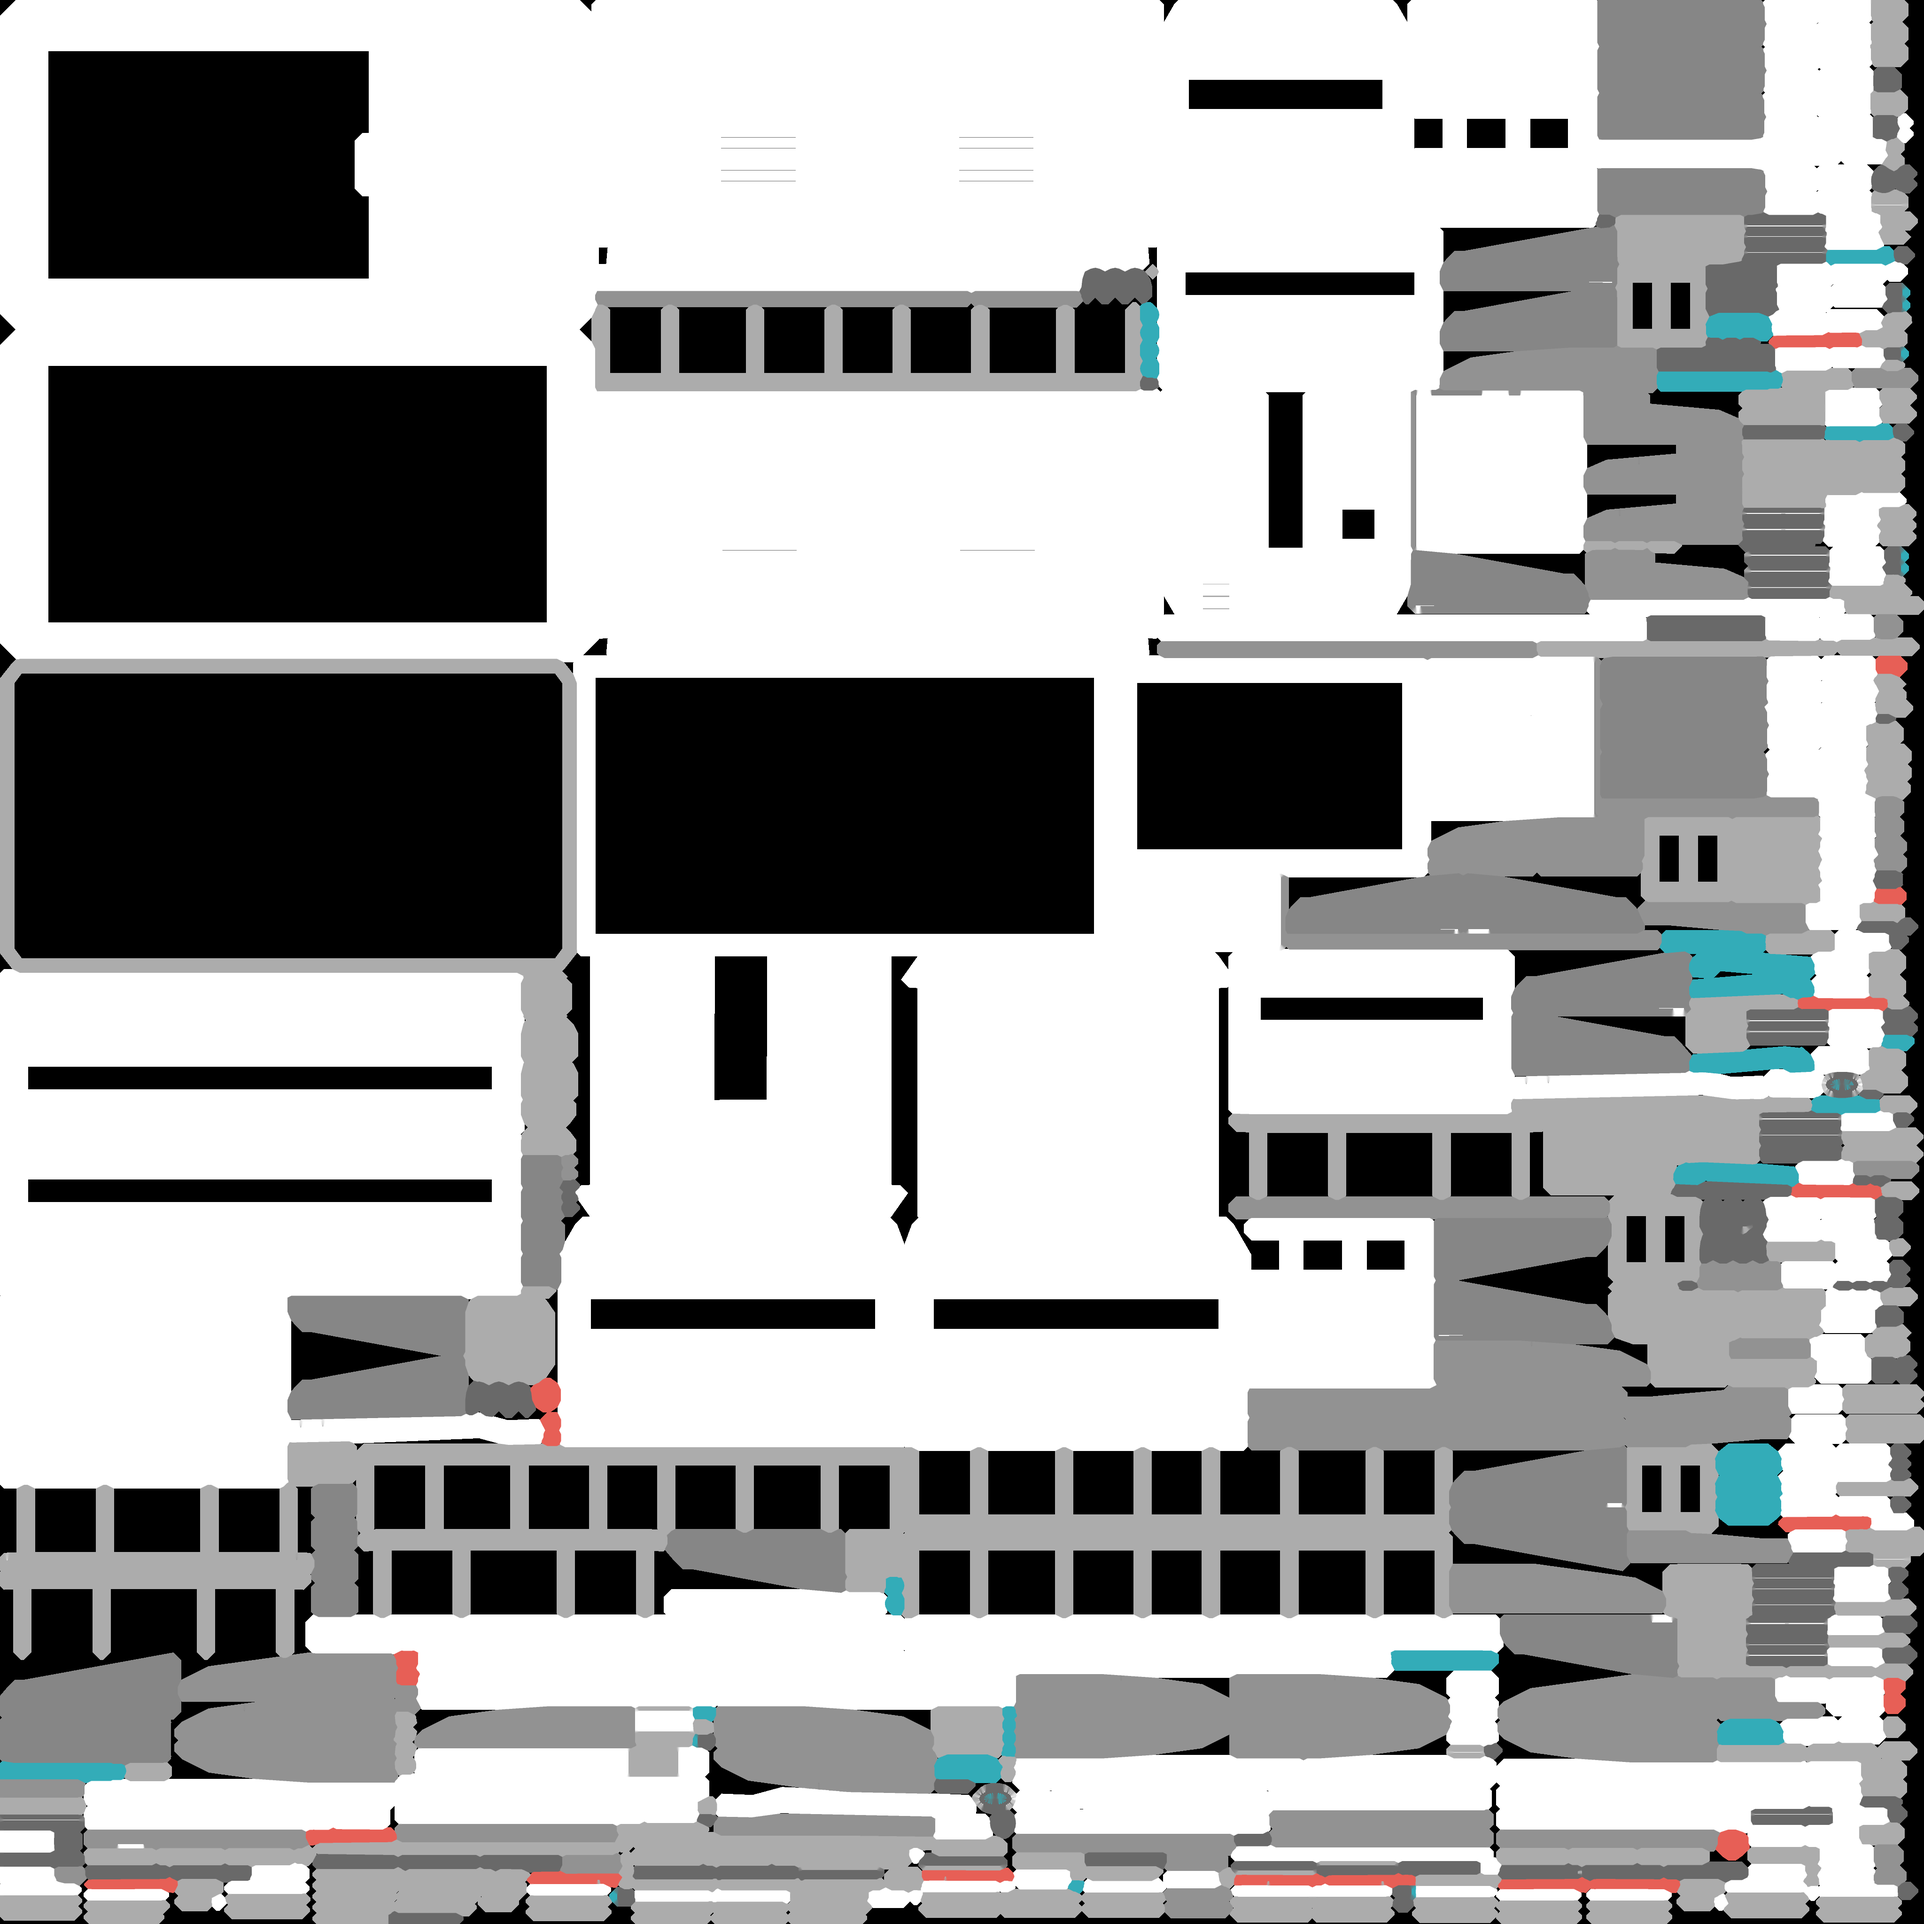
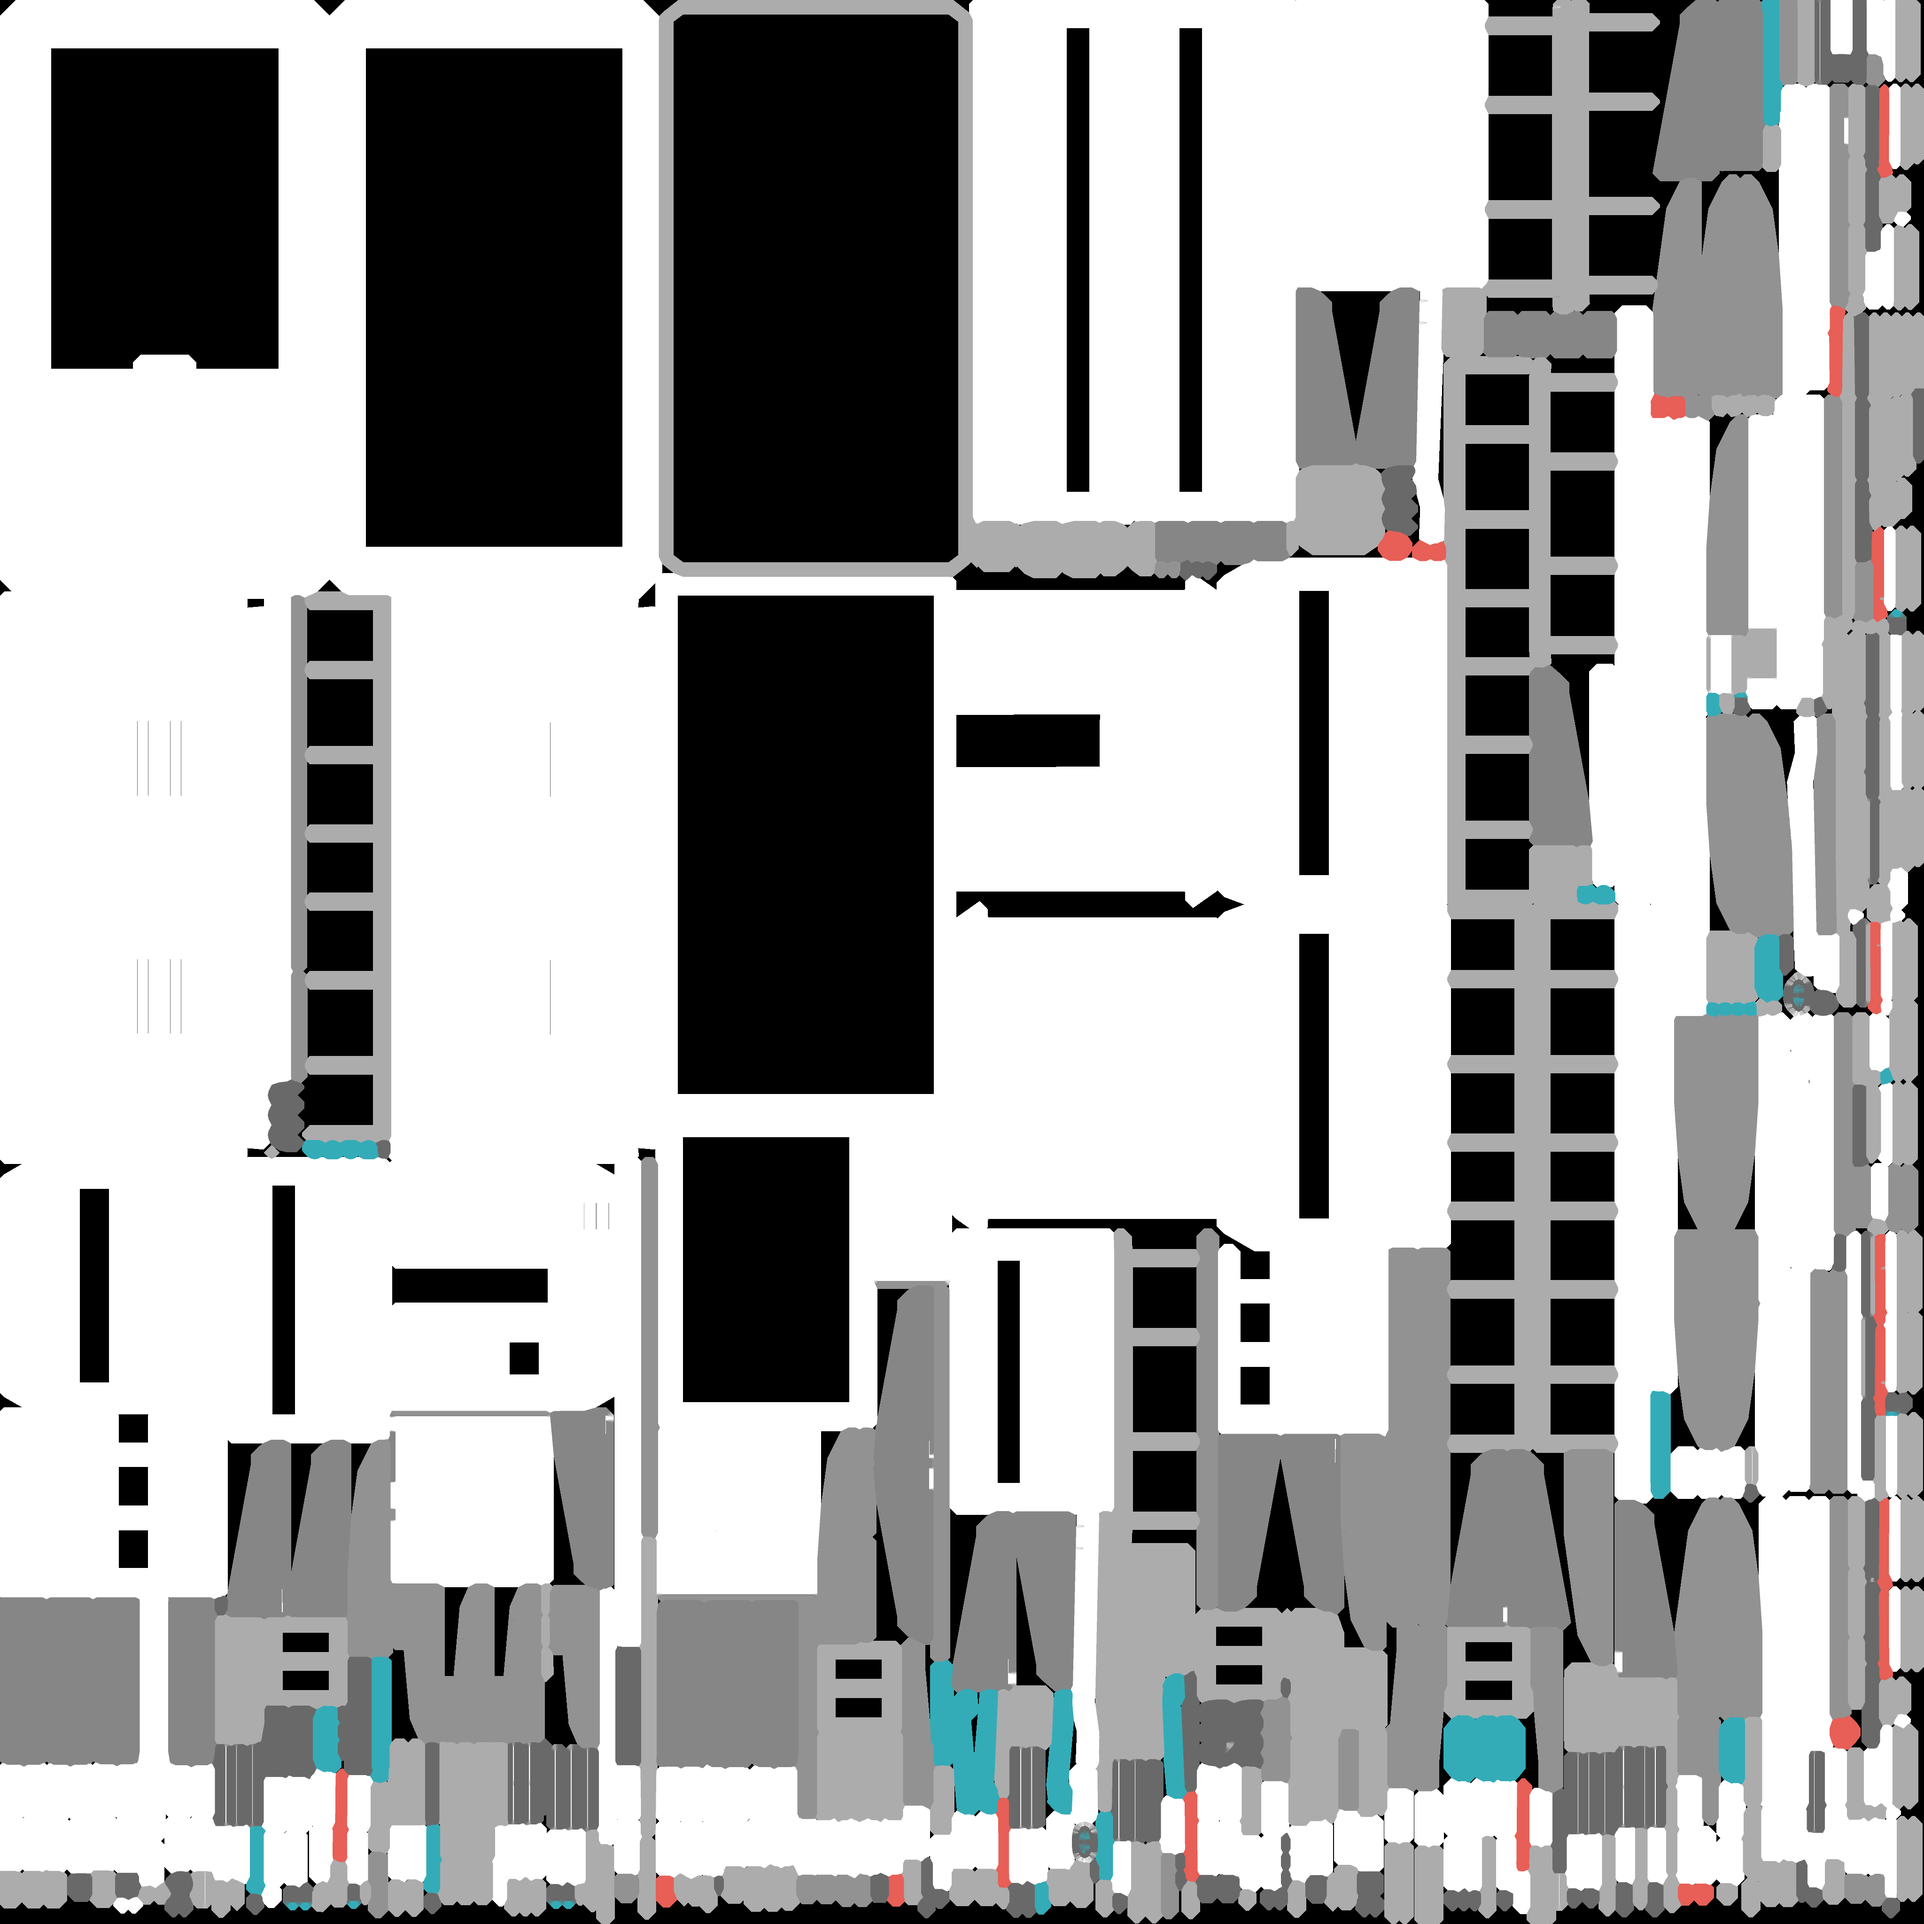
ligthing

diff --git a/Modelación y Computación Gráfica para Ingenieros/Tareas/Tarea2/tarea2.py b/Modelación y Computación Gráfica para Ingenieros/Tareas/Tarea2/tarea2.py
@@ -7,6 +7,7 @@ import libs.shaders as sh
 import libs.transformations as tr
 import libs.scene_graph as sg
 import libs.shapes as shp
+import libs.lighting_shaders as ls
 
 from libs.gpu_shape import createGPUShape
 from libs.obj_handler import read_OBJ2
@@ -56,7 +57,7 @@ class Controller(pyglet.window.Window):
 class Scene:
     def __init__(self) -> None:
         # Initial setup of the scene
-        self.pipeline = sh.SimpleTextureModelViewProjectionShaderProgram()
+        self.pipeline = ls.SimpleTexturePhongShaderProgram()
         self.root = sg.SceneGraphNode("root")
         tex_params = TEX
 
@@ -232,7 +233,9 @@ def on_key_press(symbol, modifiers):
     if symbol == pyglet.window.key.D: movement.z_angle -= 1
     if symbol == pyglet.window.key.W: movement.x_direction += 1
     if symbol == pyglet.window.key.S: movement.x_direction -= 1
-    if modifiers == pyglet.window.key.MOD_SHIFT: movement.speed = 0.3
+    # the value of modifier when I press shift sometimes is 17 and other times is 1 (16 and 0 on release) and idk why
+    # MOD_SHIFT doesn't always get the right value
+    if modifiers == 17: movement.speed = 0.3
     # Close the window
     if symbol == pyglet.window.key.ESCAPE: controller.close()
 
@@ -243,7 +246,7 @@ def on_key_release(symbol, modifiers):
     if symbol == pyglet.window.key.D: movement.z_angle += 1
     if symbol == pyglet.window.key.W: movement.x_direction -= 1
     if symbol == pyglet.window.key.S: movement.x_direction += 1
-    if modifiers == pyglet.window.key.MOD_SHIFT-1: movement.speed = 0.15 # for some reason is a different value on release (at least in my pc)
+    if modifiers == 16: movement.speed = 0.15
 
 # What happens when the user moves the mouse
 @controller.event
@@ -284,6 +287,20 @@ def on_draw():
 
     # Among Us shadow
     scene.amongUsShadow.transform = tr.matmul([tr.translate(9, -1, 0.1), tr.scale(2, 2, 0.01), tr.rotationZ(np.pi), tr.rotationX(np.pi/2)])
+
+    # Lighting shader
+    glUniform3f(glGetUniformLocation(scene.pipeline.shaderProgram, "La"), 0.8, 0.8, 0.8)
+    glUniform3f(glGetUniformLocation(scene.pipeline.shaderProgram, "Ld"), 1, 1, 1)
+    glUniform3f(glGetUniformLocation(scene.pipeline.shaderProgram, "Ls"), 1, 1, 1)
+    glUniform3f(glGetUniformLocation(scene.pipeline.shaderProgram, "Ka"), 1, 1, 1)
+    glUniform3f(glGetUniformLocation(scene.pipeline.shaderProgram, "Kd"), 1, 1, 1)
+    glUniform3f(glGetUniformLocation(scene.pipeline.shaderProgram, "Ks"), 1, 1, 1)
+    glUniform3f(glGetUniformLocation(scene.pipeline.shaderProgram, "lightPosition"), 0, 0, 25)
+    glUniform3f(glGetUniformLocation(scene.pipeline.shaderProgram, "viewPosition"), camera.eye[0], camera.eye[1], camera.eye[2])
+    glUniform1ui(glGetUniformLocation(scene.pipeline.shaderProgram, "shininess"), 200)
+    glUniform1f(glGetUniformLocation(scene.pipeline.shaderProgram, "constantAttenuation"), 0.00001)
+    glUniform1f(glGetUniformLocation(scene.pipeline.shaderProgram, "linearAttenuation"), 0.03)
+    glUniform1f(glGetUniformLocation(scene.pipeline.shaderProgram, "quadraticAttenuation"), 0.03)
 
     # Camera tracking of the ship, projection and view
     camera.update(movement.eye)

diff --git a/Modelación y Computación Gráfica para Ingenieros/Tareas/Tarea2/libs/lighting_shaders.py b/Modelación y Computación Gráfica para Ingenieros/Tareas/Tarea2/libs/lighting_shaders.py
@@ -723,7 +723,7 @@ class SimpleTexturePhongShaderProgram:
             OpenGL.GL.shaders.compileShader(fragment_shader, OpenGL.GL.GL_FRAGMENT_SHADER))
 
 
-    def setupVAO(self, gpuShape):
+    def setupVAO(self, gpuShape, obj):
 
         glBindVertexArray(gpuShape.vao)
 
@@ -732,15 +732,18 @@ class SimpleTexturePhongShaderProgram:
 
         # 3d vertices + rgb color + 3d normals => 3*4 + 2*4 + 3*4 = 32 bytes
         position = glGetAttribLocation(self.shaderProgram, "position")
-        glVertexAttribPointer(position, 3, GL_FLOAT, GL_FALSE, 32, ctypes.c_void_p(0))
+        if obj=="obj": glVertexAttribPointer(position, 3, GL_FLOAT, GL_FALSE, 32, ctypes.c_void_p(0))
+        else: glVertexAttribPointer(position, 3, GL_FLOAT, GL_FALSE, 20, ctypes.c_void_p(0))
         glEnableVertexAttribArray(position)
-        
+
         color = glGetAttribLocation(self.shaderProgram, "texCoords")
-        glVertexAttribPointer(color, 2, GL_FLOAT, GL_FALSE, 32, ctypes.c_void_p(12))
+        if obj=="obj": glVertexAttribPointer(color, 2, GL_FLOAT, GL_FALSE, 32, ctypes.c_void_p(12))
+        else: glVertexAttribPointer(color, 2, GL_FLOAT, GL_FALSE, 20, ctypes.c_void_p(12))
         glEnableVertexAttribArray(color)
 
         normal = glGetAttribLocation(self.shaderProgram, "normal")
-        glVertexAttribPointer(normal, 3, GL_FLOAT, GL_FALSE, 32, ctypes.c_void_p(20))
+        if obj=="obj": glVertexAttribPointer(normal, 3, GL_FLOAT, GL_FALSE, 32, ctypes.c_void_p(20))
+        else: glVertexAttribPointer(normal, 3, GL_FLOAT, GL_FALSE, 20, ctypes.c_void_p(20))
         glEnableVertexAttribArray(normal)
 
         # Unbinding current vao
